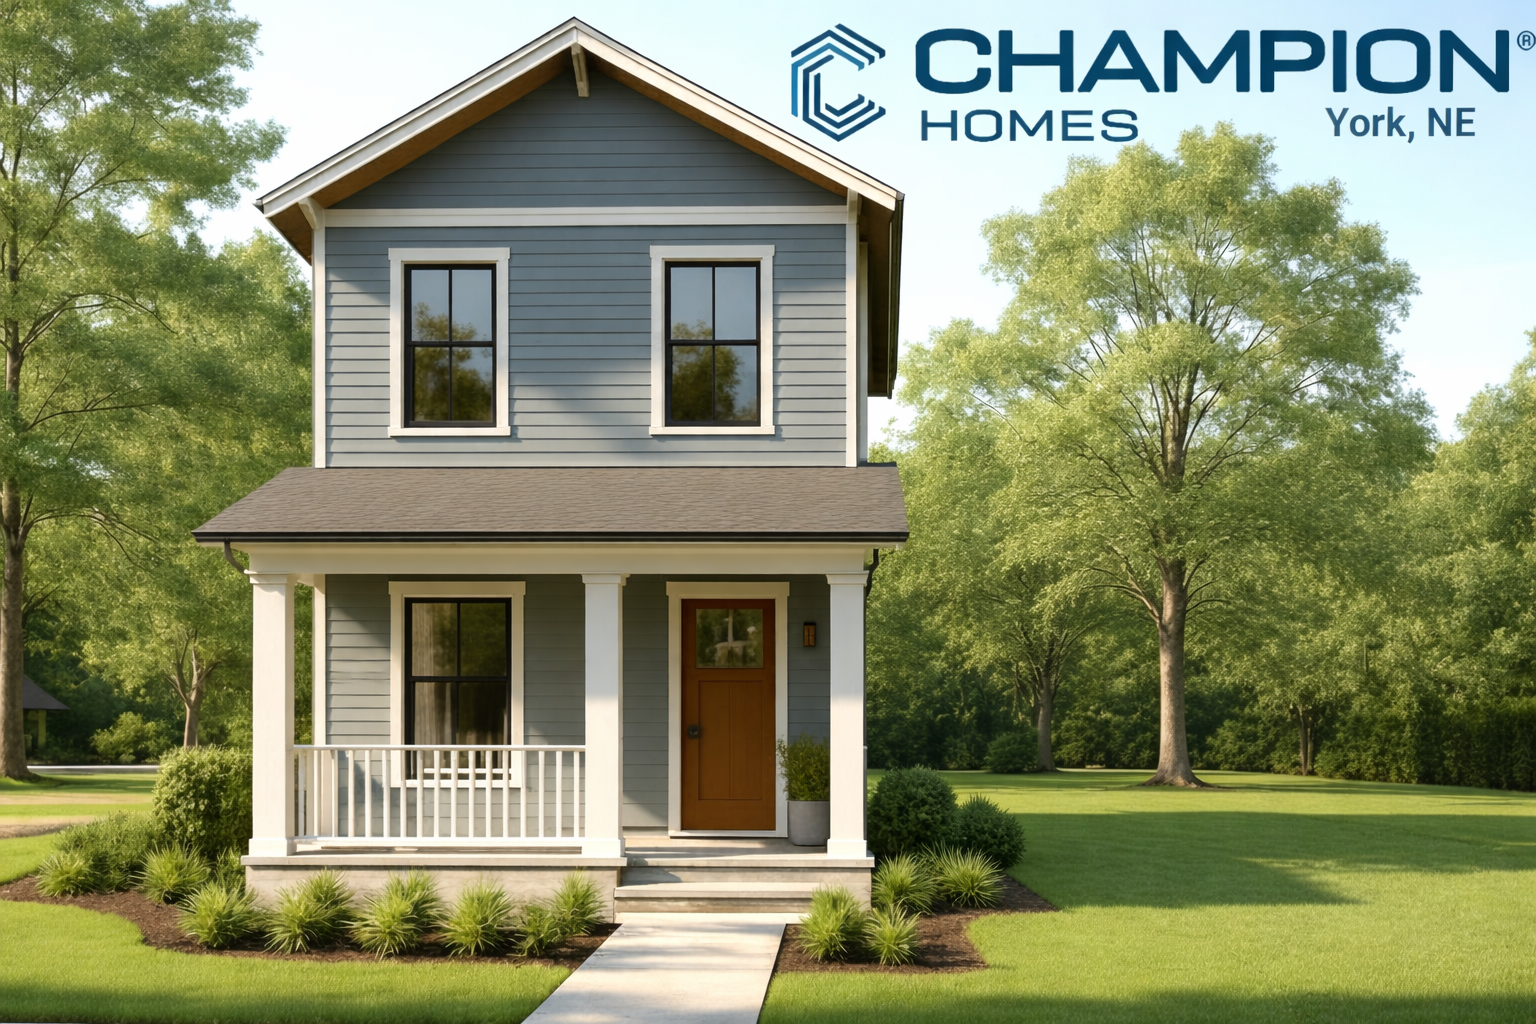
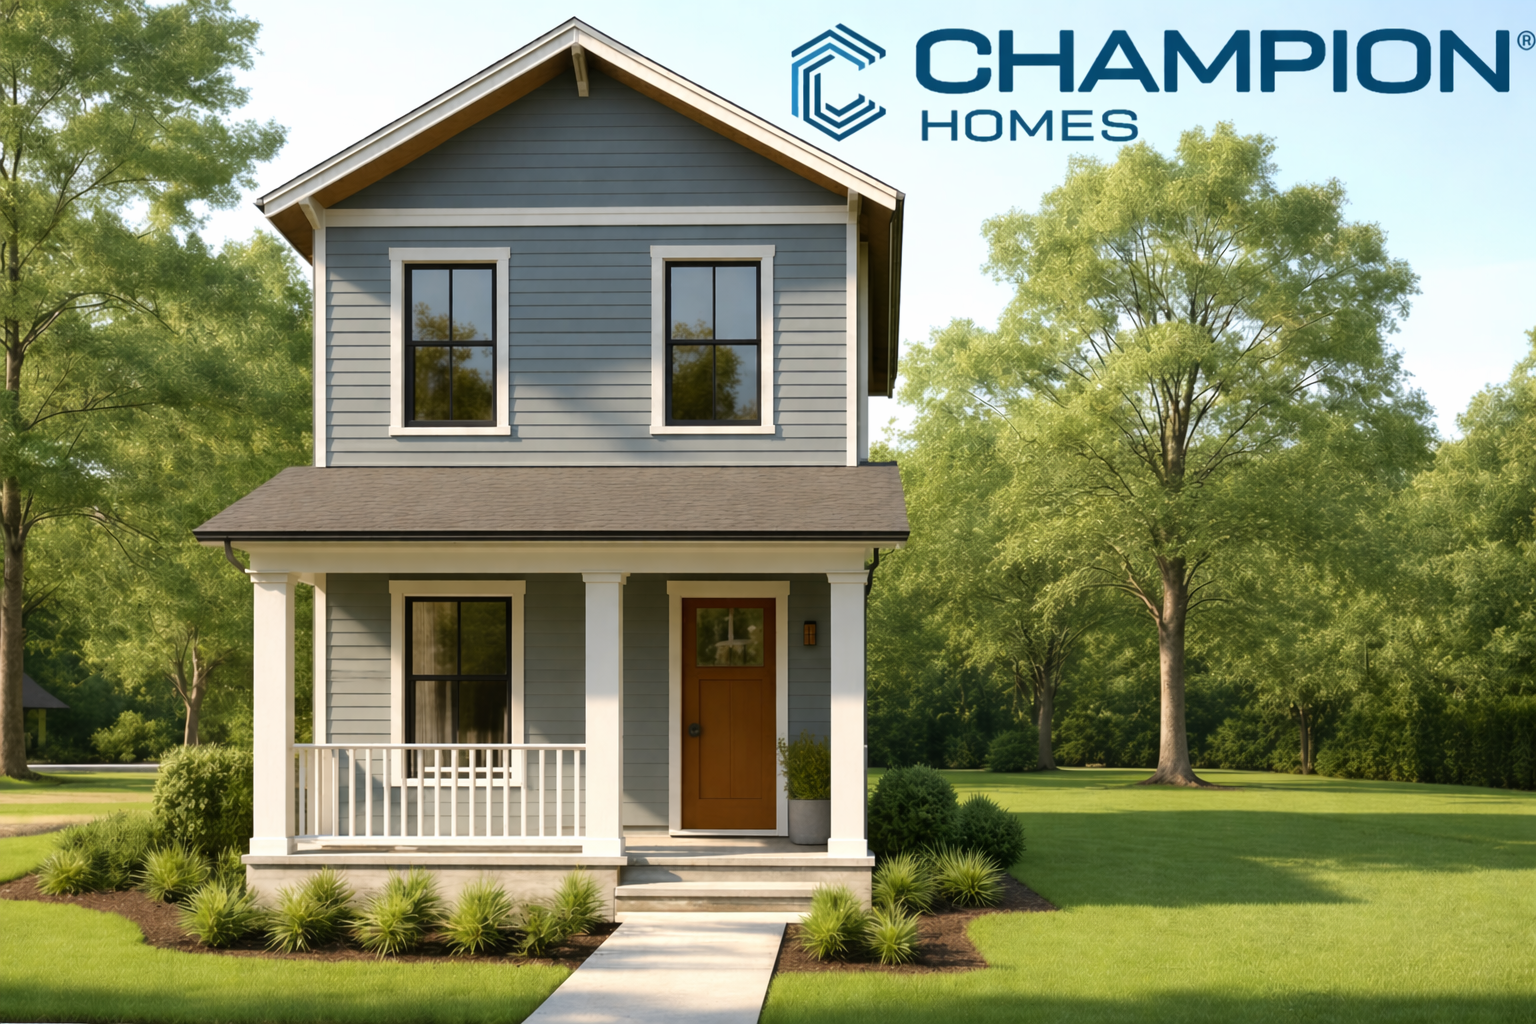
v3: swap final rendering for clean version (no York, NE text)
Replace public/final-rendering.png with the new "2 story without York
NE text" image and remove the #york-cover overlay (CSS + div) since
the new image no longer has the "York, NE" tag to mask. The cover
would have obscured the Champion Homes logo on the new image.

diff --git a/index.html b/index.html
@@ -402,10 +402,8 @@
         align-items: center;
         justify-content: center;
       }
-      /* Inner wrapper around the image so we can position child overlays
-         (like the York, NE cover) RELATIVE to the image, not the viewport.
-         The wrapper auto-sizes to the image because it has display:inline-block
-         with no width set. */
+      /* Inner wrapper around the image. display:inline-block so it auto-sizes
+         to the image dimensions, allowing the box-shadow to hug the image. */
       #final-rendering-inner {
         position: relative;
         display: inline-block;
@@ -426,20 +424,6 @@
         #final-rendering-inner,
         #final-rendering { max-width: 92vw; max-height: 70vh; }
       }
-      /* Sky-colored cover over the "York, NE" text in the rendering's upper
-         right. Sized in % of the rendering so it scales with the image at
-         any viewport size. Position tuned visually: the text sits roughly
-         at right 4-15%, top 5-11% of the rendering. */
-      #york-cover {
-        position: absolute;
-        top: 4%;
-        right: 2%;
-        width: 16%;
-        height: 8%;
-        background: #C9D7DD;            /* matches the pale upper sky in the rendering */
-        pointer-events: none;
-      }
-
       /* Start-with-sound overlay (shown until user clicks; required by browsers
          to satisfy the autoplay-with-sound policy). */
       #start-overlay {
@@ -501,8 +485,6 @@
       <div id="final-rendering-wrap">
         <div id="final-rendering-inner">
           <img id="final-rendering" src="/final-rendering.png" alt="" />
-          <!-- Sky-colored cover over the "York, NE" text in the upper-right. -->
-          <div id="york-cover"></div>
         </div>
       </div>
 
